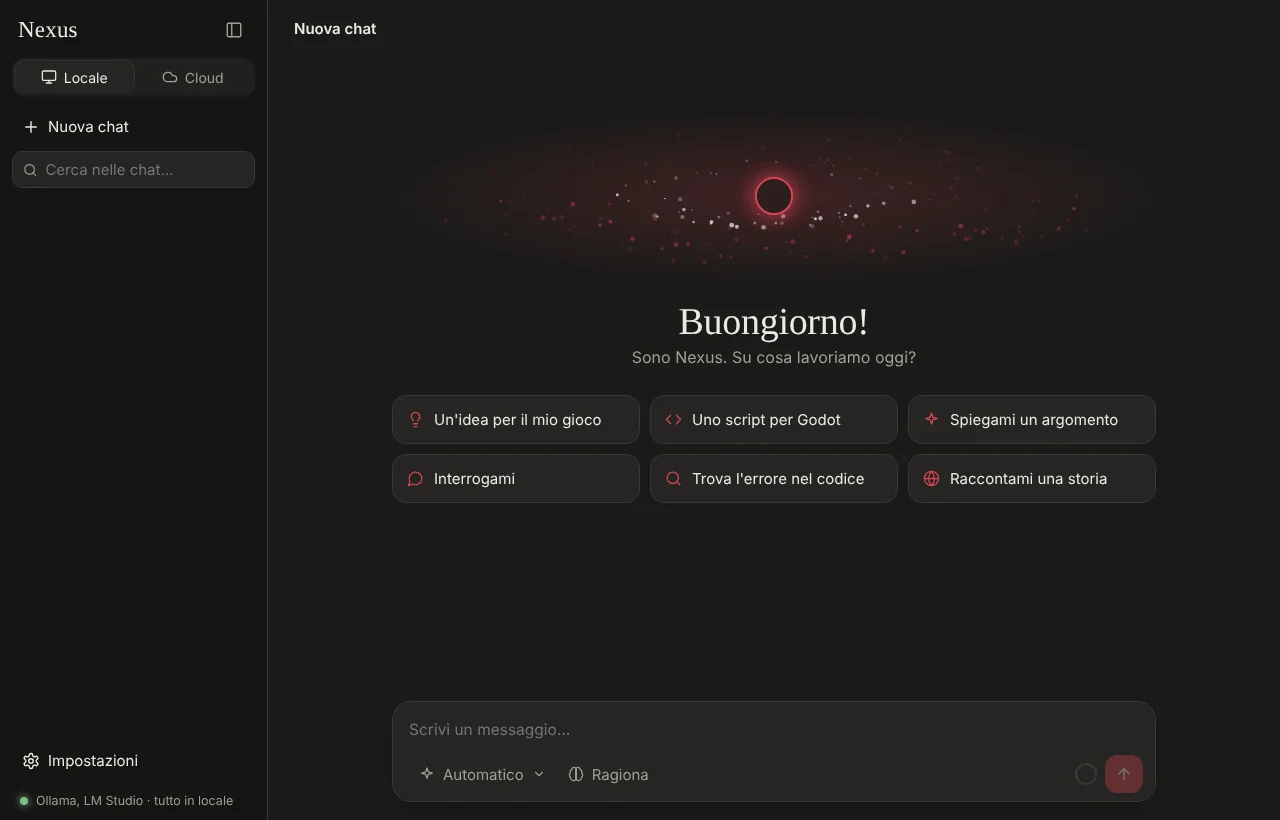
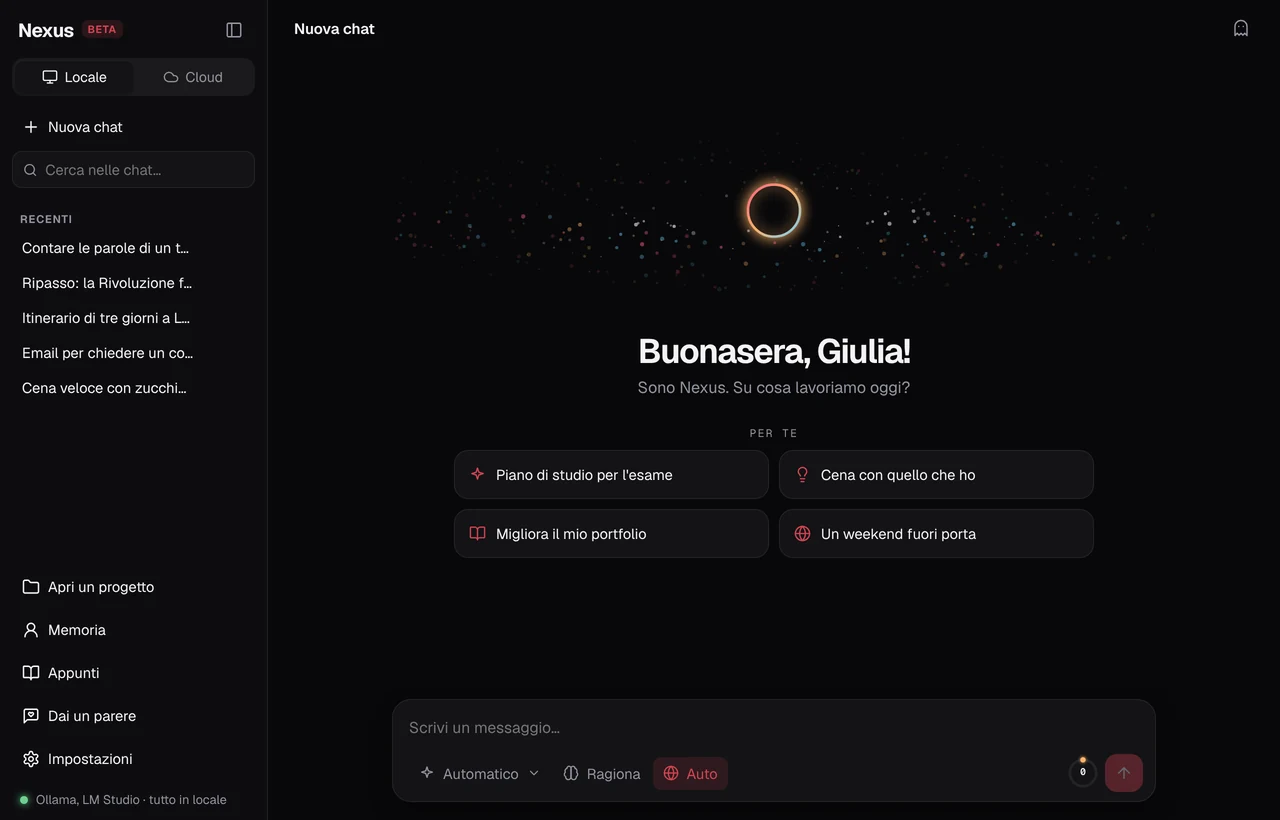
Sito: immagini nuove di Nexus e avviso "guarda in Promozioni"
- benvenuto, costellazione e risposta rifatte con la grafica nuova (nero, Geist,
  orbita del sito, suggerimenti "Per te")
- dopo l'iscrizione: "se non vedi l'email, guarda in Promozioni o Spam"

Claude-Session: https://claude.ai/code/session_01GtaATpveetJsX56QiRkZxu

diff --git a/index.html b/index.html
@@ -269,7 +269,7 @@ footer .gabbia { display: flex; justify-content: space-between; flex-wrap: wrap;
           <input type="email" name="email" class="campo-email" placeholder="Inserisci la tua email..." required aria-label="Indirizzo email per la lista d'attesa">
           <button type="submit" class="bottone pieno">Unisciti</button>
         </form>
-        <div class="esito-waitlist" id="esito-hero">✓ Ti sei iscritto alla lista d'attesa!</div>
+        <div class="esito-waitlist" id="esito-hero">✓ Sei dentro! Ti abbiamo mandato un'email: se non la vedi, guarda in Promozioni o Spam.</div>
         <p class="consenso">Iscrivendoti ricevi email su Nexus: l'invito alla beta e le novità. Niente spam, ti cancelli quando vuoi con un clic.</p>
       </div>
       
@@ -280,7 +280,7 @@ footer .gabbia { display: flex; justify-content: space-between; flex-wrap: wrap;
   <section class="vetrina">
     <div class="gabbia">
       <figure class="cornice" style="margin:0">
-        <img src="img/benvenuto.webp" width="1280" height="820" alt="La finestra di Nexus: la barra con le chat, il disco del buco nero e la casella per scrivere">
+        <img src="img/benvenuto.webp" width="1280" height="820" alt="La finestra di Nexus: la barra con le chat, il disco, i suggerimenti Per te e la casella per scrivere">
         <svg viewBox="0 0 100 100" preserveAspectRatio="none" aria-hidden="true">
           <rect class="alone" x="0.4" y="0.4" width="99.2" height="99.2" rx="1.6" pathLength="100" vector-effect="non-scaling-stroke" />
           <rect x="0.4" y="0.4" width="99.2" height="99.2" rx="1.6" pathLength="100" vector-effect="non-scaling-stroke" />
@@ -409,7 +409,7 @@ footer .gabbia { display: flex; justify-content: space-between; flex-wrap: wrap;
             <input type="email" name="email" class="campo-email" placeholder="Inserisci la tua email..." required aria-label="Indirizzo email per la lista d'attesa">
             <button type="submit" class="bottone pieno">Unisciti ora</button>
           </form>
-          <div class="esito-waitlist" id="esito-sezione">✓ Ti sei iscritto alla lista d'attesa!</div>
+          <div class="esito-waitlist" id="esito-sezione">✓ Sei dentro! Ti abbiamo mandato un'email: se non la vedi, guarda in Promozioni o Spam.</div>
         <p class="consenso">Iscrivendoti ricevi email su Nexus: l'invito alla beta e le novità. Niente spam, ti cancelli quando vuoi con un clic.</p>
         </div>
       </div>
@@ -579,7 +579,7 @@ footer .gabbia { display: flex; justify-content: space-between; flex-wrap: wrap;
     tasto.disabled = true;
     tasto.classList.add("iscritto");
     tasto.textContent = giaIscritto ? "✓ Già iscritto" : "✓ Iscritto";
-    esito.textContent = giaIscritto ? "✓ Sei già nella lista d'attesa, non serve iscriversi di nuovo!" : "✓ Ti sei iscritto alla lista d'attesa!";
+    esito.textContent = giaIscritto ? "✓ Sei già nella lista d'attesa, non serve iscriversi di nuovo!" : "✓ Sei dentro! Ti abbiamo mandato un'email: se non la vedi, guarda in Promozioni o Spam.";
     esito.classList.add("visibile");
   };
 
